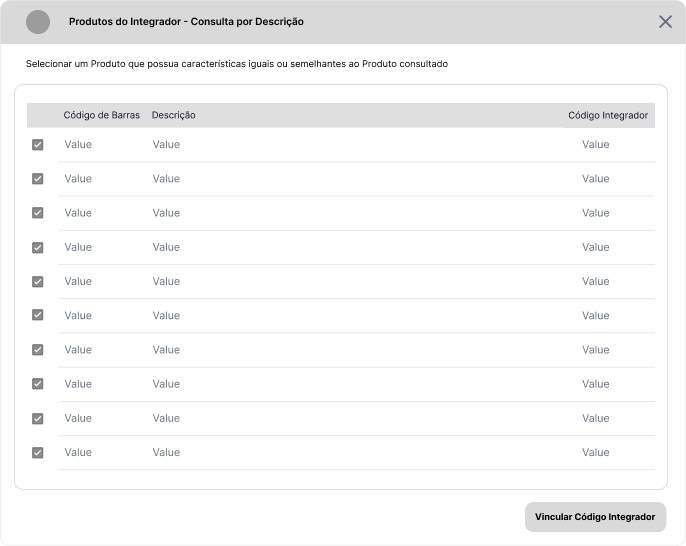
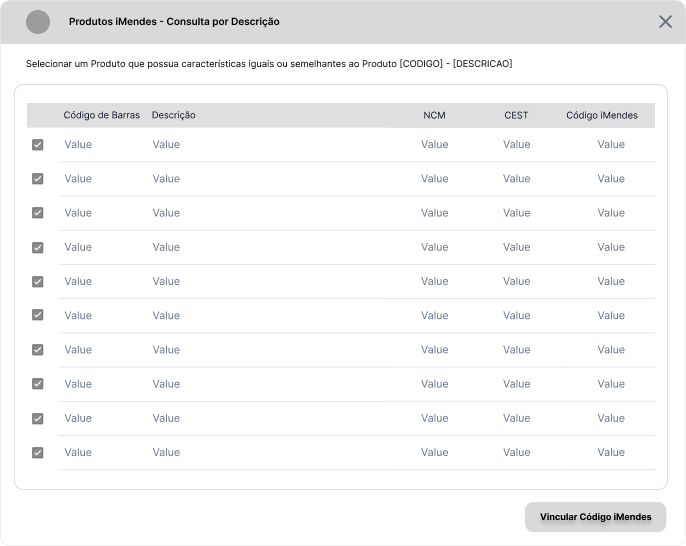
New Inserts

diff --git a/Requisitos - iMendes.md b/Requisitos - iMendes.md
@@ -23,6 +23,10 @@ Sumário
 - [Requisitos de Homologação](#requisitos-de-homologação)
   - [Checklist do MVP iMendes](#checklist-do-mvp-imendes)
 - [Recursos Adicionais](#recursos-adicionais)
+  - [Consulta por Descrição](#consulta-por-descrição)
+  - [Passos para executar a Consulta por Descrição](#passos-para-executar-a-consulta-por-descrição)
+  - [Tratamento do Retorno](#tratamento-do-retorno)
+  - [Nova Tela - Consulta por Descrição](#nova-tela---consulta-por-descrição)
 
 ---
 
@@ -528,3 +532,149 @@ Nesta seção contém a relação de recursos que o Sistema Ganso deve oferecer 
 **Legenda**: Coluna **Item**: MVP - Implementação Mínima | VF - Versão Final (Recursos Adicionais)
 
 # Recursos Adicionais
+
+## Consulta por Descrição
+
+Determinados Integradores podem possuir recursos importantes para garantir que o Usuário consiga informações Tributárias de todos os seus Produtos, mesmo os que não possuírem **Código de Barras** padronizado ou dados específicos requeridos. Um dos **Recursos Adicionais** trata-se da **Pesquisa por Descrição**, em que é oferecida a **Base de Dados de Produtos do Integrador** para que o Usuário relacione o seu Produto e obtenha os dados Tributários conforme desejado. Este recurso deve ser disponibilizado para o [Método de Consulta 2](#métodos-de-consulta) e deve ser acionado nas Situações a seguir.
+
+| Ação do Usuário                                                                                | Dados Inseridos                                                        | Mensagem ao Usuário                                                                                                                                                                                     | Decisão                                                                                                                                                                                                                                                                                                                                                                                                                                                                                                                                              | Validações                                                                                                                                                                             |
+| :--------------------------------------------------------------------------------------------- | :--------------------------------------------------------------------- | :------------------------------------------------------------------------------------------------------------------------------------------------------------------------------------------------------ | :--------------------------------------------------------------------------------------------------------------------------------------------------------------------------------------------------------------------------------------------------------------------------------------------------------------------------------------------------------------------------------------------------------------------------------------------------------------------------------------------------------------------------------------------------- | :------------------------------------------------------------------------------------------------------------------------------------------------------------------------------------- |
+| Cadastrando Novo Produto e Acionando a Consulta Tributária                                     | Apenas Descrição do Produto                                            | Informar que a Consulta Tributária ocorrerá através da Descrição e que o Usuário deverá tomar a decisão em vincular um **Código do Integrador** para futuras consultas.                                 | Utilizar o **[Método de Consulta 2](#métodos-de-consulta) (Apenas Descrição)** e exibir os Produtos encontrados utilizando a [Nova Tela - Consulta por Descrição](#nova-tela---consulta-por-descrição)                                                                                                                                                                                                                                                                                                                                               | Solicitar Chave de Acesso Restrito para vincular o Código do Integrador. [Ver Seção Acessos Restritos](#acessos-restritos)                                                             |
+| Cadastrando Novo Produto ou Utilizando um Produto Cadastrado e Acionando a Consulta Tributária | Descrição e Código de Barras inválido, mas com 8, 12, 13 ou 14 dígitos | Informar que o Código de Barras é inválido e solicitar que o usuário verifique o Código informado. Disponibilizar as opções para **"Continuar por Descrição"** e **"Continuar pelo Código de Barras"**. | Se Usuário **"Continuar por Descrição"**, exibir mensagem informando que a consulta ocorrerá através da Descrição, utilizar **[Método de Consulta 2](#métodos-de-consulta) (Apenas Descrição)** e exibir os Produtos encontrados utilizando a [Nova Tela - Consulta por Descrição](#nova-tela---consulta-por-descrição).<br><br> Se Usuário **"Continuar pelo Código de Barras"**, utilizar o **[Método de Consulta 1](#métodos-de-consulta)**, exibir mensagem informando que o Produto pode não ser encontrado se o Código de Barras for inválido. | Aplicar método de validação do Código de Barras pelo dígito verificador. <br><br> Exibir mensagem clara e objetiva sobre possível falha do Processo "Continuar pelo Código de Barras". |
+
+## Passos para executar a Consulta por Descrição
+
+Conforme mencionando anteriormente, a Consulta por Descrição ([Método de Consulta 2](#métodos-de-consulta)) requer utilização da API **Envia/Recebe Dados**, e sua estrutura de requisição também é distinta. Antes do envio da Requisição, é necessário coletar CNPJ da Filial Consulente e a Descrição do Produto. Após coleta dos dados, a Estrutura da Requisição pode ser visualizada no Exemplo a seguir.
+
+```JSON
+
+{ "nomeServico": "DESCRPRODUTOS", "dados": "04391715000173|DIANTEIRO RESFRIADO|0"}
+
+```
+
+Onde:
+
+| Tag           | Descritivo                                                                 | Parâmetros Aceitos                                                                                                                                                             |
+| :------------ | :------------------------------------------------------------------------- | :----------------------------------------------------------------------------------------------------------------------------------------------------------------------------- |
+| `nomeServico` | Determina qual Serviço/Método será utilizado da API **Envia/Recebe Dados** | Texto "DESCPRODUTOS"                                                                                                                                                           |
+| `dados`       | Dados da Requisição para o "Método Descrição de Produtos"                  | CNPJ, Descrição do Produto e Critério. <br><br> O CNPJ deve ser enviado apenas números. <br> A Descrição do Produto deve ser enviada total. <br> O Critério deve ser sempre 0. |
+
+:bulb: **Nota:** Este recurso pode ser utilizado de modo Unitário, ou seja, é permitido uma Consulta por Vez, já que a iMendes irá retornar uma Lista de Produtos. Quando processada em Lotes, deve ser tratado de outra maneira, sugerindo ao Usuário que tome a decisão sobre qual Produto vincular.
+
+O retorno da consulta de exemplo acima, terá o seguinte resultado:
+
+```JSON
+{
+    "cabecalho": {
+        "CNPJ": "04391715000173",
+        "produtosRetornados": 12,
+        "mensagem": ""
+    },
+    "produto": [
+        {
+            "id": "12167324",
+            "descricao": "CARNE BOVINA RESFRIADA C/OSSO DIANTEIRO",
+            "ean": "02000002013327",
+            "ncm": "02012010",
+            "cest": "17.084.00"
+        },
+        {
+            "id": "26309024",
+            "descricao": "CARNE BOVINA RESFRIADA DIANTEIRO BOVINO",
+            "ean": "07898949138822",
+            "ncm": "02012010",
+            "cest": "17.084.00"
+        },
+        {
+            "id": "27473522",
+            "descricao": "CARNE MOIDA DIANTEIRO DO CHEF RESFRIADA 500 G",
+            "ean": "07895000468126",
+            "ncm": "02013000",
+            "cest": "17.084.00"
+        },
+        {
+            "id": "20062683",
+            "descricao": "CARNE MOIDA RESFRIADA DE DIANTEIRO CARREFOUR SELECTION 500 G",
+            "ean": "07891103206429",
+            "ncm": "02013000",
+            "cest": "17.084.00"
+        },
+        {
+            "id": "425749",
+            "descricao": "CARNE RESFRIADA DE BOVINO COM OSSO - DIANTEIRO",
+            "ean": "07898494840027",
+            "ncm": "02012010",
+            "cest": "17.084.00"
+        },
+        {
+            "id": "37198638",
+            "descricao": "CARNE RESFRIADA DE BOVINO COM OSSO DIANTEIRO DE BOI",
+            "ean": "00000079017206",
+            "ncm": "02013000",
+            "cest": "17.084.00"
+        },
+        {
+            "id": "37198641",
+            "descricao": "CARNE RESFRIADA DE BOVINO COM OSSO DIANTEIRO NOVILHA",
+            "ean": "00000079027670",
+            "ncm": "02013000",
+            "cest": "17.084.00"
+        },
+        {
+            "id": "28250892",
+            "descricao": "CARNE RESFRIADA DE BOVINO SEM OSSO   MUSCULO DIANTEIRO",
+            "ean": "07895944001335",
+            "ncm": "02013000",
+            "cest": "17.084.00"
+        },
+        {
+            "id": "35207133",
+            "descricao": "CARNE RESFRIADA DE BOVINO SEM OSSO  MUSCULO DIANTEIRO 22017",
+            "ean": "09900000227029",
+            "ncm": "02013000",
+            "cest": "17.084.00"
+        },
+        {
+            "id": "7317457",
+            "descricao": "DIANTEIRO C /OSSO RESFRIADO BOVINO",
+            "ean": "09010665772588",
+            "ncm": "02012010",
+            "cest": "17.084.00"
+        },
+        {
+            "id": "35215413",
+            "descricao": "MUSCULO DIANTEIRO BOVINO RESFRIADO PALAD",
+            "ean": "01230000031912",
+            "ncm": "02013000",
+            "cest": "17.084.00"
+        }
+    ]
+}
+```
+
+## Tratamento do Retorno
+
+As informações retornadas pela iMendes no exemplo anterior devem ser dispostas nos campos da _Grid de Dados_ da [Nova Tela - Consulta por Descrição](#nova-tela---consulta-por-descrição), conforme relacionamento abaixo:
+
+| Campo Retorno | Campo da Grid        | Regra de Negócio                                                                                                                                     |
+| :------------ | :------------------- | :--------------------------------------------------------------------------------------------------------------------------------------------------- |
+| `id`          | Código iMendes       | Quando usuário selecionar o Item, gravar esta informação no campo "Código Integrador" do [Cadastro de Produtos](#alterações-no-cadastro-de-produtos) |
+| `descricao`   | Descrição do Produto | -                                                                                                                                                    |
+| `ean`         | Código de Barras     | -                                                                                                                                                    |
+| `ncm`         | NCM                  | -                                                                                                                                                    |
+| `cest`        | CEST                 | Remover a máscara do resultado                                                                                                                       |
+
+## Nova Tela - Consulta por Descrição
+
+A Nova Tela para Consulta por Descrição deve conter os elementos obrigatórios descritos a seguir.
+
+| Elemento          | Descritivo                                                           | Regra de Negócio                                                                                                                                                            |
+| :---------------- | :------------------------------------------------------------------- | :-------------------------------------------------------------------------------------------------------------------------------------------------------------------------- |
+| Título da Tela    | Título do Formulário                                                 | Exibir "Produtos iMendes - Consulta por Descrição"                                                                                                                          |
+| Texto Explicativo | Instruções para usuário                                              | Exibir "Selecionar um Produto que possua características iguais ou semelhantes ao Produto [CODIGO] - [DESCRICAO], onde, respectivamente, é o Código e Descrição do Produto. |
+| _Grid de Dados_   | Lista dos Produtos pesquisados por Descrição retornados pela iMendes | Exibir as colunas: **Código de Barras, Descrição, NCM, CEST e ID (Código iMendes)** <br> Permitir selecionar apenas um Produto da _Grid de Dados_ para vincular ao Produto. |
+| Botão de Ação     | Botão para **Vincular Código iMendes**                               | Ação para gravar o campo `id` (Código iMendes) do Produto selecionado na _Grid_ no Produto em Cadastro/Consulta.                                                            |
+
+A seguir um _Protótipo_ que exemplifica os recursos e elementos da Tela.
+
+![Nova Tela - Consulta por Descrição](./Wireframe-Screen-Description-Consulting.png)
